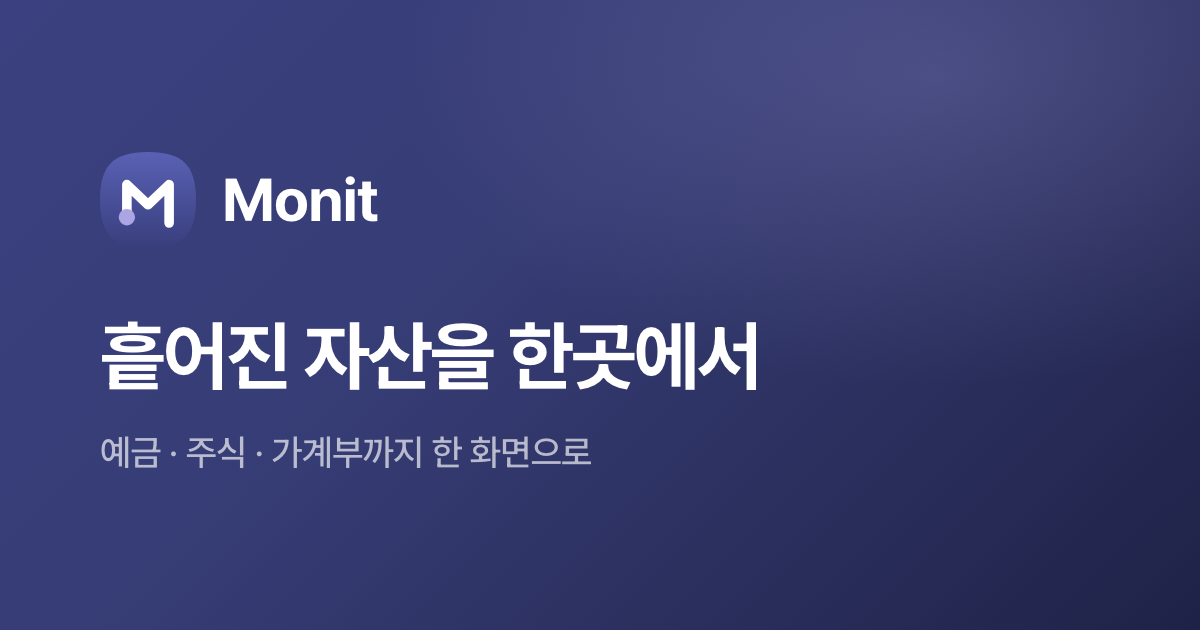
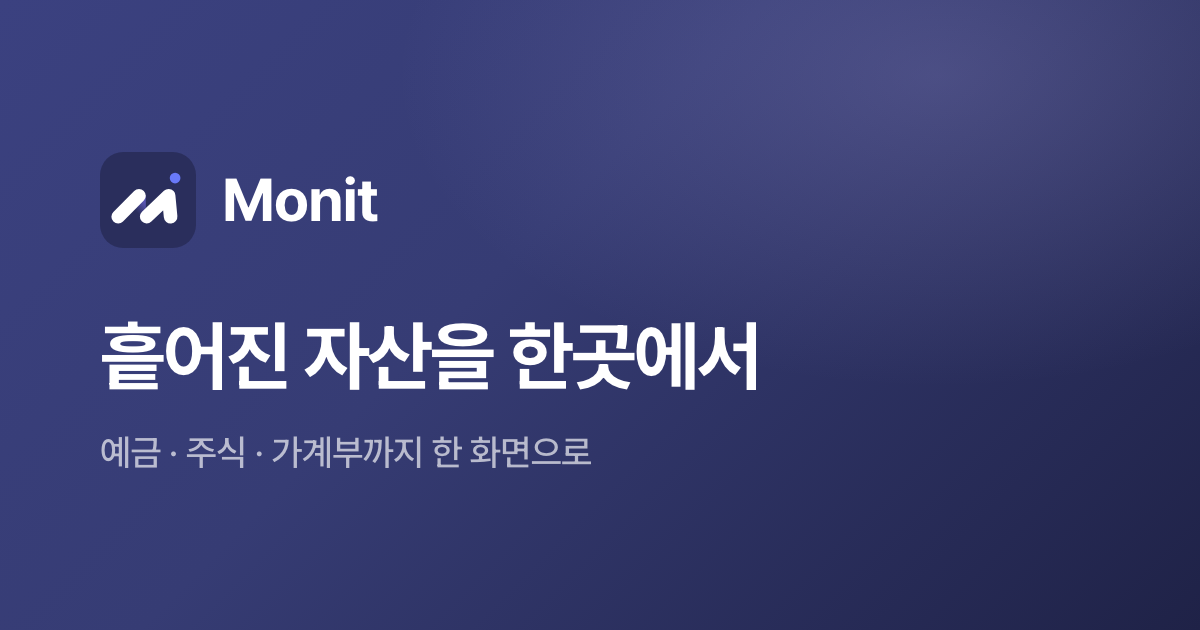
fix(brand): 링크 미리보기 배너의 로고를 확정 심볼로 교체한다
카카오톡에 주소를 공유하면 교체 전 로고가 그대로 보이는 문제. og-image.png가 로고 교체
커밋(b08c8de, 2026-08-25)보다 오래된 2026-08-17 생성본이라, 파비콘·앱 로고만 바뀌고 배너는
옛 도형이 남아 있었다.

- scripts/og-image/index.html의 심볼을 favicon.svg / MonitLogo.tsx 라이트 변형과 같은
  "볼 터미널 M" 도형으로 맞춘다. 타일은 규격 그대로 평면 #2A2E5C를 쓴다 — 예전 도형은 타일
  그라데이션이 배너 배경과 같은 남색이라 일부러 밝게 잡았지만, 새 타일은 배경보다 충분히
  어두워 그럴 필요가 없다.
- public/og-image.png를 다시 뽑는다(headless Chrome, 1200x630).
- og:image / twitter:image에 ?v=2를 붙여 이미지 캐시를 무효화한다. 카카오는 이미지가 아니라
  페이지 주소의 수집 결과를 캐시하므로 배포 후 카카오 디버거에서 별도로 초기화해야 한다
  (index.html 주석에 남김).

Claude-Session: https://claude.ai/code/session_0171VQ23xPqQKGSyZQbuqY7i

Changed region(s): [[0.0617, 0.2413, 0.185, 0.3921]]

diff --git a/index.html b/index.html
@@ -33,14 +33,20 @@
          - 이미지 원본은 scripts/og-image/index.html 이다. 아래 문구를 고치면 그 파일도 같이
            고치고 PNG를 다시 뽑을 것(다시 뽑는 명령은 그 파일 상단 주석에 있다).
          - 카카오는 URL별 미리보기를 며칠간 캐시한다. 배포 후 카카오 개발자사이트의 디버거에서
-           캐시를 초기화해야 기존 대화방에도 새 미리보기가 뜬다. -->
+           캐시를 초기화해야 기존 대화방에도 새 미리보기가 뜬다.
+         - og:image 뒤의 ?v= 는 이미지 캐시 무효화용이다(2026-08-27, 로고를 확정 심볼로 교체하며
+           추가). 파일명이 그대로면 슬랙·트위터 등은 예전 이미지를 계속 들고 있으므로, 배너를 다시
+           뽑을 때마다 이 숫자를 올린다. 쿼리는 경로 매칭에 영향이 없어 vercel.json은 손대지
+           않아도 된다. 다만 **카카오는 이걸로 해결되지 않는다** — 카카오가 캐시하는 것은 이미지가
+           아니라 공유된 페이지 주소(monit.io.kr)의 수집 결과이므로 위 디버거 초기화가 반드시
+           필요하다. -->
     <meta name="description" content="흩어진 자산을 한곳에서. 예금·주식·가계부까지 한 화면으로." />
     <meta property="og:type" content="website" />
     <meta property="og:site_name" content="Monit" />
     <meta property="og:title" content="Monit" />
     <meta property="og:description" content="흩어진 자산을 한곳에서. 예금·주식·가계부까지 한 화면으로." />
     <meta property="og:url" content="https://monit.io.kr" />
-    <meta property="og:image" content="https://monit.io.kr/og-image.png" />
+    <meta property="og:image" content="https://monit.io.kr/og-image.png?v=2" />
     <meta property="og:image:type" content="image/png" />
     <meta property="og:image:width" content="1200" />
     <meta property="og:image:height" content="630" />
@@ -49,7 +55,7 @@
     <meta name="twitter:card" content="summary_large_image" />
     <meta name="twitter:title" content="Monit" />
     <meta name="twitter:description" content="흩어진 자산을 한곳에서. 예금·주식·가계부까지 한 화면으로." />
-    <meta name="twitter:image" content="https://monit.io.kr/og-image.png" />
+    <meta name="twitter:image" content="https://monit.io.kr/og-image.png?v=2" />
 
     <!-- 첫 페인트 전 테마 적용. main.tsx는 type="module"이라 지연 실행되고, 프로덕션 빌드에서는
          CSS <link>가 렌더를 막는 동안 흰 화면이 먼저 그려질 수 있다 — 동기 인라인 스크립트만

diff --git a/scripts/og-image/index.html b/scripts/og-image/index.html
@@ -89,29 +89,23 @@
   <body>
     <div class="frame">
       <div class="brand">
-        <!-- public/favicon.svg 와 동일한 도형 -->
+        <!-- public/favicon.svg / MonitLogo.tsx 라이트 변형과 같은 도형(확정 심볼 "볼 터미널 M").
+             타일 색만 다르다 — 그 이유는 아래 주석 참고. -->
         <svg viewBox="0 0 100 100" xmlns="http://www.w3.org/2000/svg">
           <defs>
-            <linearGradient id="monit-og-bg" x1="0" y1="0" x2="0" y2="1">
-              <!-- 파비콘(#363C74→#1F2247)보다 밝게 잡는다. 배너 배경 자체가 같은 남색이라
-                   원본 값 그대로면 로고 타일이 배경에 묻혀 사각형이 보이지 않는다. -->
-              <stop offset="0" stop-color="#5A61B4" />
-              <stop offset="1" stop-color="#383E7C" />
+            <linearGradient id="monit-og-ov" gradientUnits="userSpaceOnUse" x1="38.48" y1="62.89" x2="47.46" y2="53.91">
+              <stop offset="0" stop-color="#6761CD" stop-opacity="0" />
+              <stop offset="1" stop-color="#6761CD" stop-opacity=".76" />
             </linearGradient>
+            <clipPath id="monit-og-clip"><rect width="100" height="100" rx="24.26" ry="24.26" /></clipPath>
           </defs>
-          <path
-            d="M50,0 C14,0 0,14 0,50 C0,86 14,100 50,100 C86,100 100,86 100,50 C100,14 86,0 50,0 Z"
-            fill="url(#monit-og-bg)"
-          />
-          <path
-            d="M28,62 L28,34 L50,55 L72,34 L72,74"
-            fill="none"
-            stroke="#FFFFFF"
-            stroke-width="10"
-            stroke-linecap="round"
-            stroke-linejoin="round"
-          />
-          <circle cx="28" cy="68" r="8.5" fill="#ABA5E4" />
+          <rect width="100" height="100" rx="24.26" ry="24.26" fill="#2A2E5C" />
+          <path d="M47.75 44.92 L47.75 91.8 L0.88 91.8 Z" fill="url(#monit-og-ov)" clip-path="url(#monit-og-clip)" />
+          <circle cx="78.22" cy="27.15" r="5.57" fill="#6979F8" />
+          <g fill="none" stroke="#FFFFFF" stroke-width="14.16" stroke-linecap="round" stroke-linejoin="round">
+            <path d="M18.95 67.38 L40.62 45.61" />
+            <path d="M48.63 67.38 L71.48 45.61 L73.54 67.38" />
+          </g>
         </svg>
         <div class="wordmark">Monit</div>
       </div>
